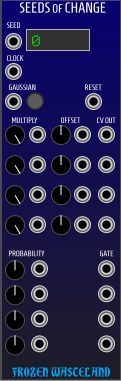
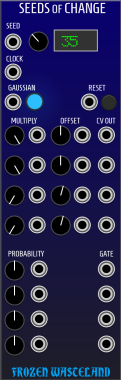
1.7 beta 2

diff --git a/src/SeedsOfChange.cpp b/src/SeedsOfChange.cpp
@@ -19,6 +19,8 @@
 
 struct SeedsOfChange : Module {
 	enum ParamIds {
+		SEED_PARAM,
+		RESET_PARAM,
 		DISTRIBUTION_PARAM,
 		MULTIPLY_1_PARAM,
 		OFFSET_1_PARAM = MULTIPLY_1_PARAM + NBOUT,
@@ -54,6 +56,8 @@ struct SeedsOfChange : Module {
 	SeedsOfChange() {
 		// Configure the module
 		config(NUM_PARAMS, NUM_INPUTS, NUM_OUTPUTS, NUM_LIGHTS);
+		configParam(SeedsOfChange::SEED_PARAM, 0.0, 99.0, 0.0,"Seed");
+		configParam(SeedsOfChange::RESET_PARAM, 0.0, 1.0, 0.0);
 		configParam(SeedsOfChange::DISTRIBUTION_PARAM, 0.0, 1.0, 0.0,"Distribution");
 		for (int i=0; i<NBOUT; i++) {
 			configParam(SeedsOfChange::MULTIPLY_1_PARAM + i, 0.0f, 10.0f, 10.0f, "Multiply");			
@@ -75,17 +79,18 @@ struct SeedsOfChange : Module {
 			gaussianMode = !gaussianMode;
 		}
 
-		if (inputs[DISTRIBUTION_INPUT].active) {
-			gaussianMode= inputs[DISTRIBUTION_INPUT].value  > 5.0;  
+		if (inputs[DISTRIBUTION_INPUT].isConnected()) {
+			gaussianMode = inputs[DISTRIBUTION_INPUT].getVoltage()  > 5.0;  
 		}
 		
 		lights[DISTRIBUTION_GAUSSIAN_LIGHT].value = gaussianMode;
 		
-		if( inputs[RESET_INPUT].active ) {
-			if (resetTrigger.process(inputs[RESET_INPUT].value) ) {
-				init_genrand((unsigned long)(inputs[SEED_INPUT].value*9.9));
-			} 
-		}
+        float resetInput = inputs[RESET_INPUT].getVoltage();
+		resetInput += params[RESET_PARAM].getValue(); 		
+
+        if (resetTrigger.process(resetInput) ) {
+            init_genrand((unsigned long)(inputs[SEED_INPUT].isConnected() ? inputs[SEED_INPUT].getVoltage()*9.9 : params[SEED_PARAM].getValue()));
+        } 
 
 		if( inputs[CLOCK_INPUT].active ) {
 			if (clockTrigger.process(inputs[CLOCK_INPUT].value) ) {
@@ -254,7 +259,7 @@ struct SeedsOfChangeWidget : ModuleWidget {
 		{
 			SeedsOfChangeSeedDisplay *display = new SeedsOfChangeSeedDisplay();
 			display->module = module;
-			display->box.pos = Vec(27, 46);
+			display->box.pos = Vec(57, 46);
 			display->box.size = Vec(box.size.x-31, 51);
 			addChild(display);
 		}
@@ -266,15 +271,20 @@ struct SeedsOfChangeWidget : ModuleWidget {
 
 
 
+
+
+        addParam(createParam<RoundReallySmallFWKnob>(Vec(28,31), module, SeedsOfChange::SEED_PARAM));			
+		addInput(createInput<FWPortInSmall>(Vec(4, 33), module, SeedsOfChange::SEED_INPUT));
+
+		addInput(createInput<FWPortInSmall>(Vec(4, 63), module, SeedsOfChange::CLOCK_INPUT));
+
+        addParam(createParam<TL1105>(Vec(100, 94), module, SeedsOfChange::RESET_PARAM));
+		addInput(createInput<FWPortInSmall>(Vec(80, 93), module, SeedsOfChange::RESET_INPUT));
+
 		addParam(createParam<LEDButton>(Vec(25, 92), module, SeedsOfChange::DISTRIBUTION_PARAM));
 		addChild(createLight<LargeLight<BlueLight>>(Vec(26.5, 93.5), module, SeedsOfChange::DISTRIBUTION_GAUSSIAN_LIGHT));
 		addInput(createInput<FWPortInSmall>(Vec(4, 93), module, SeedsOfChange::DISTRIBUTION_INPUT));
 
-
-		addInput(createInput<FWPortInSmall>(Vec(4, 33), module, SeedsOfChange::SEED_INPUT));
-		addInput(createInput<FWPortInSmall>(Vec(4, 63), module, SeedsOfChange::CLOCK_INPUT));
-
-		addInput(createInput<FWPortInSmall>(Vec(84, 93), module, SeedsOfChange::RESET_INPUT));
 
 		for (int i=0; i<NBOUT; i++) {
 			addParam(createParam<RoundReallySmallFWKnob>(Vec(4,125 + i * 30), module, SeedsOfChange::MULTIPLY_1_PARAM + i));			

diff --git a/src/QuadAlgorithmicRhythm.cpp b/src/QuadAlgorithmicRhythm.cpp
@@ -606,7 +606,7 @@ struct QuadAlgorithmicRhythm : Module {
 		if(!inputs[RESET_INPUT].isConnected() && masterQARPresent) {
 			resetInput = expanderResetValue;
 		}
-		resetInput +=+ params[RESET_PARAM].getValue(); //RESET BUTTON ALWAYS WORKS		
+		resetInput += params[RESET_PARAM].getValue(); //RESET BUTTON ALWAYS WORKS		
 		if(resetTrigger.process(resetInput)) {
 			for(int trackNumber=0;trackNumber<4;trackNumber++)
 			{
